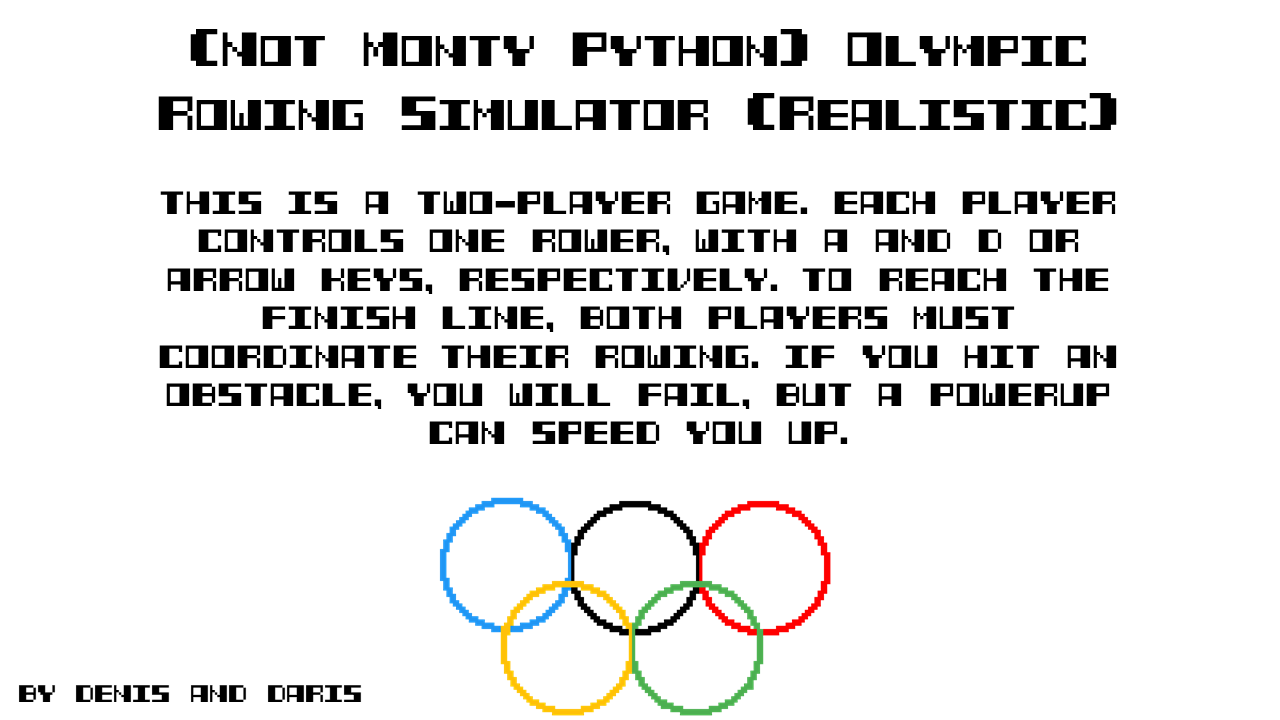
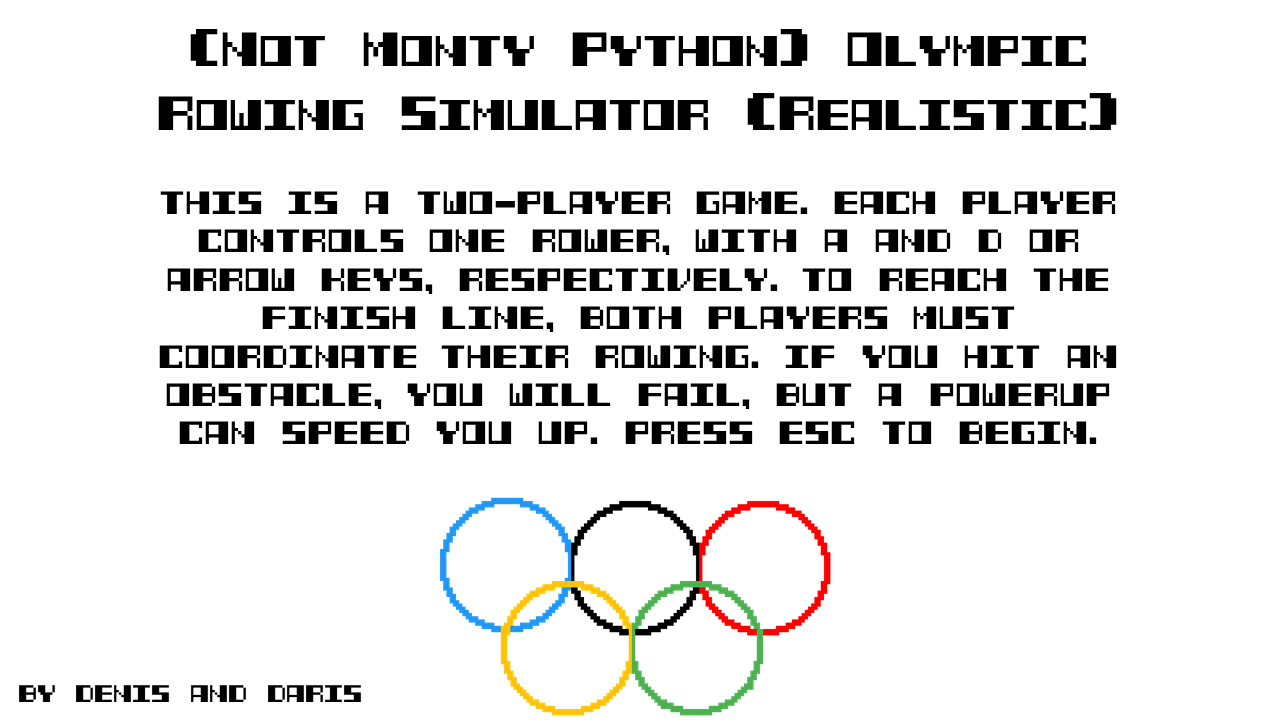
fixed asset, intro implemented

Changed region(s): [[0.125, 0.5806, 0.875, 0.6417]]

diff --git a/main.py b/main.py
@@ -444,8 +444,6 @@ while running:
         # print(menu,game,scorebd)
         if intro:
             screen.blit(introbg, screen.get_rect())
-            if menu_keys.enter:
-                intro = False
 
         if menu:
             if enteredMenu:
